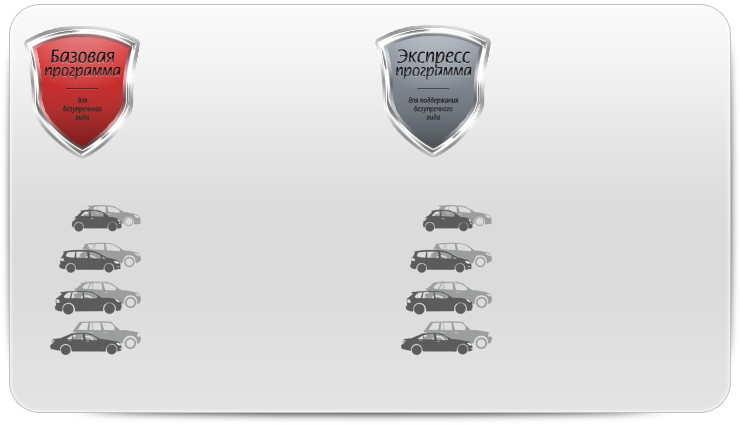
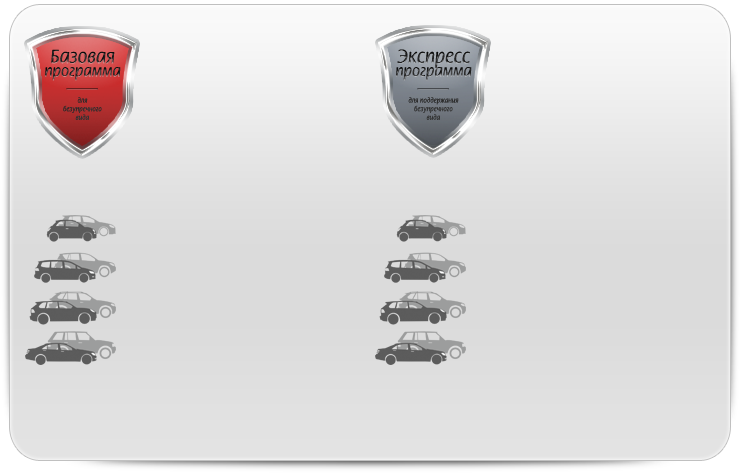
bunch of updates

Changed region(s): [[0.0311, 0.0, 0.9635, 0.3671], [0.4973, 0.4282, 0.6838, 0.8565], [0.0311, 0.4282, 0.1865, 0.8565]]

diff --git a/app/assets/stylesheets/services.css.scss b/app/assets/stylesheets/services.css.scss
@@ -71,24 +71,32 @@
   .messagge2, .messagge1, .messagge-bold {
     padding: 15px 15px 0px 15px;
     font-family: 'Myriad Pro','Liberation Sans',sans-serif;
+    width: 696px;
   }
 
+  .messagge1 {
+    text-align: justify;
+  }
   .messagge-bold{
     font-weight: bold;
-    padding: 35px 15px 15px 15px;
+    padding: 15px 15px 15px 15px;
+  }
+  .messagge2 {
+    padding: 5px 15px 0px 15px;
+    text-align: justify;
   }
 
   .messagge-icon {
     float: right;
     margin-right: 35px;
-    margin-top: -15px;
+    margin-top: -5px;
     width: 20px;
   }
 
   .programms  {
      background: image-url("basic_express_box.png") no-repeat scroll 0 0 transparent;
      width: 735px;
-     height: 420px;
+     height: 463px;
      margin: 0px 0 10px 5px;
   }
 
@@ -115,15 +123,18 @@
     font-size: 20px;
     font-style: italic;
     margin: 20px 0 0 20px;
+    text-align: center;
   }
 
   .price .price-label{
     color: #a9a9a9;
     margin-top: 15px;
+    font-style: normal;
+    text-align: center;
   }
 
   .description {
-    width: 220px;
+    width: 215px;
     text-align: justify;
     margin: 10px 0 0 28px;
     line-height: 14px;
@@ -170,6 +181,8 @@
     .pic {
       display: inline-block;
       vertical-align: top;
+      width: 130px;
+      height: 130px;
       img {
         width: 130px;
         height: 130px;
